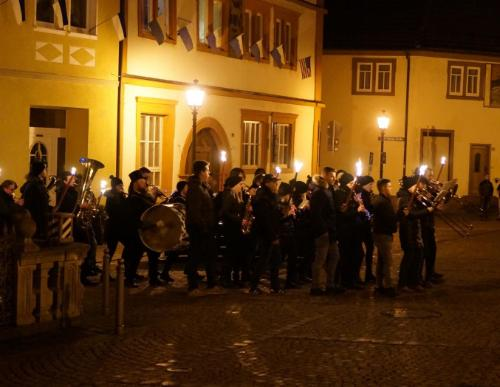
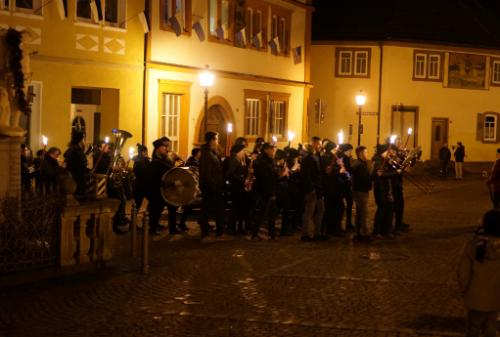
Bilder und grobe Struktur für Ablauf-Seite zusammengesteltl

diff --git a/site/layouts/partials/4-up.html b/site/layouts/partials/4-up.html
@@ -6,7 +6,7 @@
 		<div class="flex-ns flex-wrap mhn2-ns mb3">
 			{{ range .blurbs }}
 				<div class="ph2-ns w-50-ns mb4">
-					<img src="{{ .image }}" alt="" class="center db mb3" style="width: 240px">
+					<img src="{{ .image }}" alt="" class="center db mb3" style="width: 380px">
 					<p>{{ .text }}</p>
 				</div>
 			{{ end }}

diff --git a/site/layouts/section/ablauf.html b/site/layouts/section/ablauf.html
@@ -1,7 +1,8 @@
 {{ define "main" }}
 
-{{ partial "jumbotron" (dict "imageUrl" .Params.image "title" .Title) }}
+{{ partial "jumbotron" (dict "imageUrl" .Params.image "title" .Title "subtitle" .Params.subtitle) }}
 
+<!-- Bilder mit Text darunter -->
 {{ partial "4-up" .Params.intro }}
 
 

diff --git a/site/content/ablauf/_index.md b/site/content/ablauf/_index.md
@@ -1,102 +1,54 @@
 ---
-title: Ablauf
-image: /img/products-jumbotron.jpg
-heading: Ablauf-Überschrift
-description: >-
-  Kaldi is the ultimate spot for coffee lovers who want to learn about their
-  java’s origin and support the farmers that grew it. We take coffee production,
-  roasting and brewing seriously and we’re glad to pass that knowledge to
-  anyone.
+title: Ablauf des Sebastiani-Festes
+subtitle: Mit den Statuten aus dem Jahre 1866
+image: /img/F-1-wide.jpg
 intro:
+  heading: Der Ablauf
+  description: >
+    Die offizielle Zeremonie beginnt immer am Samstag des Wochenendes, das dem Gedenktag des heiligen Sebastian, dem 20. Januar, am nächsten ist. Das 389. Sebastiani-Fest beginnt am Samstag, den 23.01.2020 und endet am Montag, den 25.1.2020.
   blurbs:
-    - image: /img/illustrations-coffee.svg
+    - image: img/F-2966-thumb.jpg
       text: >
-        We sell green and roasted coffee beans that are sourced directly from
-        independent farmers and farm cooperatives. We’re proud to offer a
-        variety of coffee beans grown with great care for the environment and
-        local communities. Check our post or contact us directly for current
-        availability.
-    - image: /img/illustrations-coffee-gear.svg
+        Samstag Abend, Zapfenstreich und Fackelzug
+    - image: /img/F-3354-thumb.jpg
       text: >
-        We offer a small, but carefully curated selection of brewing gear and
-        tools for every taste and experience level. No matter if you roast your
-        own beans or just bought your first french press, you’ll find a gadget
-        to fall in love with in our shop.
-    - image: /img/illustrations-tutorials.svg
+        Sonntag Festgottesdienst
+    - image: img/F-3299-thumb.jpg
+      text: > 
+        Sonntag Mittag, Festandacht
+    - image: /img/F-3200-thumb.jpg
       text: >
-        Love a great cup of coffee, but never knew how to make one? Bought a
-        fancy new Chemex but have no clue how to use it? Don't worry, we’re here
-        to help. You can schedule a custom 1-on-1 consultation with our baristas
-        to learn anything you want to know about coffee roasting and brewing.
-        Email us or call the store for details.
-    - image: /img/illustrations-meeting-space.svg
+        Sonntag Nachmittag - Fahnenschwenken...
+    - image: /img/F-2670-thumb.jpg
       text: >
-        We believe that good coffee has the power to bring people together.
-        That’s why we decided to turn a corner of our shop into a cozy meeting
-        space where you can hang out with fellow coffee lovers and learn about
-        coffee making techniques. All of the artwork on display there is for
-        sale. The full price you pay goes to the artist.
-    - image: img/about-direct-sourcing.jpg
-      text: testblubs
-  heading: What we offer
-  description: >
-    Kaldi is the ultimate spot for coffee lovers who want to learn about their
-    java’s origin and support the farmers that grew it. We take coffee
-    production, roasting and brewing seriously and we’re glad to pass that
-    knowledge to anyone. This is an edit via identity...
+        Sonntag Abend - Zapfenstreich und Fackelzug...
+    - image: /img/F-2871-thumb.jpg
+      text: >
+        Sonntag Abend - Festkonzert im Pfarrheim 
+    - image: /img/F-2199-thumb.jpg
+      text: >
+        Montag, Gottesdienst und Kassenablage
+    
 main:
-  heading: Great coffee with no compromises
+  heading: Ablauf geht auf die Statuten aus dem Jahr 1866 zurück
   description: >
-    We hold our coffee to the highest standards from the shrub to the cup.
-    That’s why we’re meticulous and transparent about each step of the coffee’s
-    journey. We personally visit each farm to make sure the conditions are
-    optimal for the plants, farmers and the local environment.
+    todo
   image1:
     alt: A close-up of a paper filter filled with ground coffee
-    image: /img/products-grid3.jpg
+    image: /img/F-3133-thumb.jpg
   image2:
     alt: A green cup of a coffee on a wooden table
-    image: /img/products-grid2.jpg
+    image: /img/F-2991-thumb.jpg
   image3:
     alt: Coffee beans
-    image: /img/products-grid1.jpg
+    image: /img/F-3222-med.jpg
 testimonials:
-  - author: Elisabeth Kaurismäki
+  - author: Lauri Jopp
     quote: >-
-      The first time I tried Kaldi’s coffee, I couldn’t even believe that was
-      the same thing I’ve been drinking every morning.
-  - author: Philipp Trommler
+      Ich habe seit Jahren immer zugeschaut beim Fest und wollte da auch mitmachen.
+  - author: 5 neue Mitglieder 2020
     quote: >-
-      Kaldi is the place to go if you want the best quality coffee. I love their
-      stance on empowering farmers and transparency.
-full_image: /img/products-full-width.jpg
-pricing:
-  heading: Monthly subscriptions
-  description: >-
-    We make it easy to make great coffee a part of your life. Choose one of our
-    monthly subscription plans to receive great coffee at your doorstep each
-    month. Contact us about more details and payment info.
-  plans:
-    - description: Perfect for the drinker who likes to enjoy 1-2 cups per day.
-      items:
-        - 3 lbs of coffee per month
-        - Green or roasted beans"
-        - One or two varieties of beans"
-      plan: Small
-      price: '50'
-    - description: 'Great for avid drinkers, java-nsoving couples and bigger crowds'
-      items:
-        - 6 lbs of coffee per month
-        - Green or roasted beans
-        - Up to 4 different varieties of beans
-      plan: Big
-      price: '80'
-    - description: Want a few tiny batches from different varieties? Try our custom plan
-      items:
-        - Whatever you need
-        - Green or roasted beans
-        - Unlimited varieties
-      plan: Custom
-      price: '?'
+      Wir sind stolz die Tradition unseres Heimatortes weiterzutragen.
+full_image: /img/F-3223.jpg
 type: ablauf
 ---
